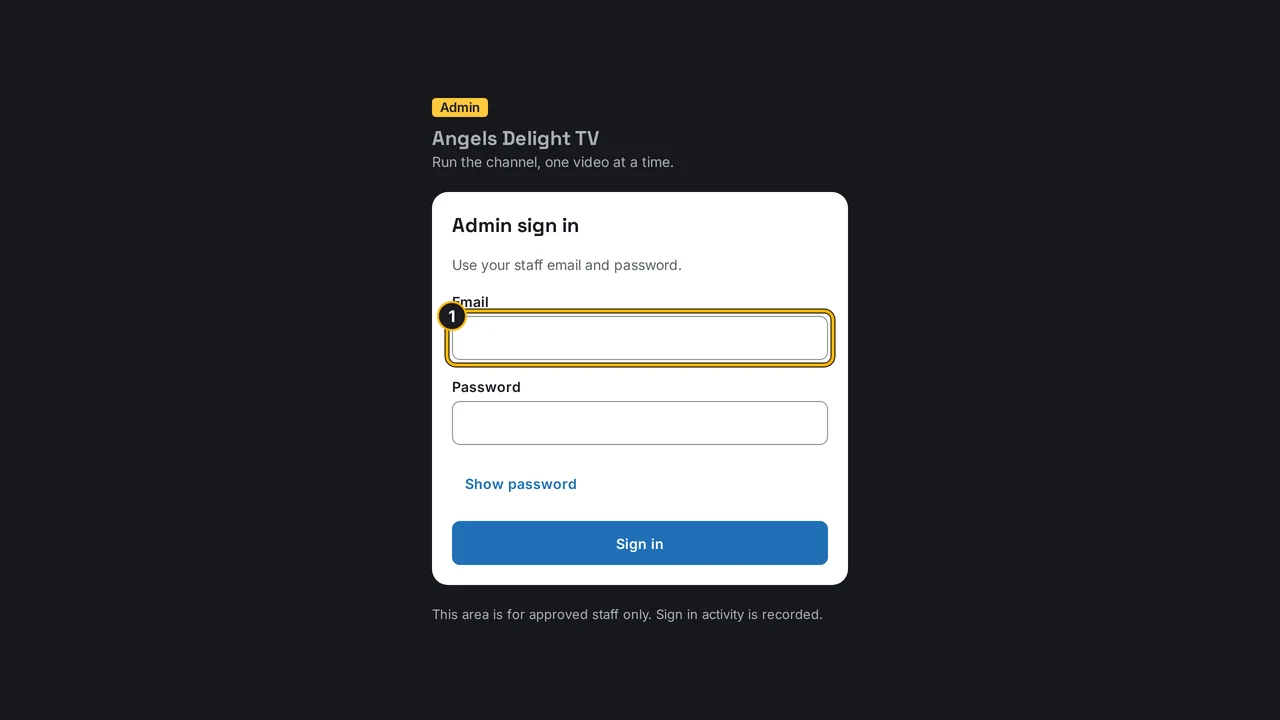
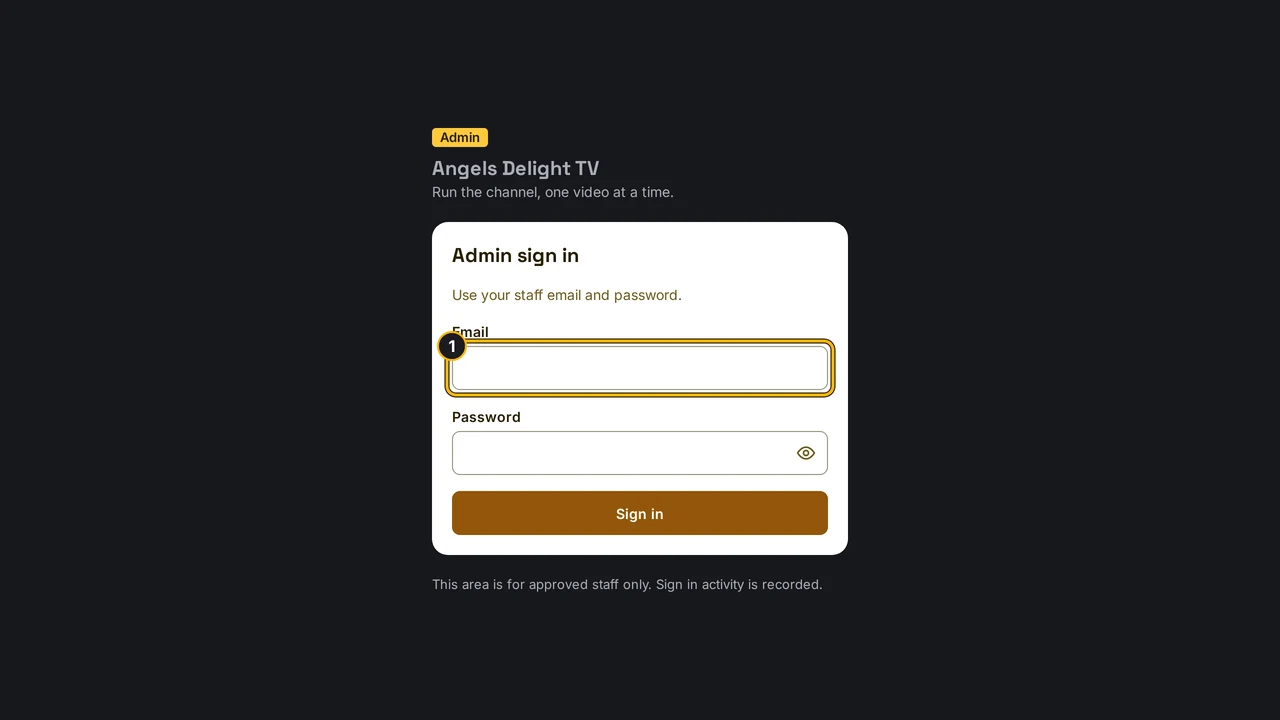
Re-record S02, T06, C12, C13 and K07 on the emailed code screens and refresh their pictures and steps

Changed region(s): [[0.3125, 0.1222, 0.6875, 0.6111], [0.3125, 0.6417, 0.6875, 0.8556], [0.625, 0.6111, 0.6562, 0.6417]]

diff --git a/scripts/kb-recorder/episodes/K07.ts b/scripts/kb-recorder/episodes/K07.ts
@@ -1,4 +1,5 @@
 import type { Episode } from '../episode';
+import { slow } from '../helpers-c7';
 import { pointAt, settle } from '../safety-helpers';
 
 /** K07: the safe habits that live on My account: password rules, the Security card, remembered devices, devices. */
@@ -96,4 +97,4 @@ const episode: Episode = {
   ],
 };
 
-export default episode;
+export default slow(episode, 3800);

diff --git a/scripts/kb-recorder/episodes/T06.ts b/scripts/kb-recorder/episodes/T06.ts
@@ -87,4 +87,4 @@ const episode: Episode = {
   ],
 };
 
-export default slow(episode, 1500);
+export default slow(episode, 3000);

diff --git a/content/help/en/safety/K07-keep-the-admin-safe.md b/content/help/en/safety/K07-keep-the-admin-safe.md
@@ -47,17 +47,15 @@ If you think someone else has your password, change it now, press **Sign out** b
 4. Type "river" in the **New password** box.
    This is only to show the rules. Nothing is saved until you press Change password.
    ![The password rules list under the New password box, marked 1](../../media/K07/K07-04-password-rules-desktop.webp)
-5. Scroll to **Two step sign in**.
-   Two step sign in is on for every staff account. It asks for a code we email you, or one from your app.
-6. Click **Make new recovery codes**.
-   Recovery codes let you in if you lose your phone. Each code works once. Keep them somewhere safe and private.
-   ![The Make new recovery codes box asking for the authenticator code, marked 1](../../media/K07/K07-06-recovery-box-desktop.webp)
-7. Check that **Your old codes stop working.** is in the box.
-8. Click **Cancel**.
-   Do not paste recovery codes into chats or emails, and do not take pictures of them.
-9. Scroll to **Where you are signed in**.
-   Sign out any device you do not know or no longer use. Staff sessions end after 7 days of no use, and after 30 days at most. Remembered devices are listed on this page with **Forget**.
-   ![The list of devices where you are signed in, marked 1](../../media/K07/K07-09-devices-desktop.webp)
+5. Scroll to **Security**.
+   Every staff account has a second step. It asks for a code we email you, or one from your authenticator app.
+   ![The Security card showing the second step in use, marked 1](../../media/K07/K07-05-security-desktop.webp)
+6. Scroll to **Remembered devices**.
+   These browsers skip the emailed code. Click **Forget** beside any you do not use. Authenticator app users see **Make new recovery codes** on the Security card instead. Each recovery code works once, so keep them private.
+   ![The Remembered devices card with its Forget button marked 1](../../media/K07/K07-06-remembered-desktop.webp)
+7. Scroll to **Where you are signed in**.
+   Sign out any device you do not know or no longer use. Staff sessions end after 60 minutes of no use.
+   ![The list of devices where you are signed in, marked 1](../../media/K07/K07-07-devices-desktop.webp)
 <!-- /kb:steps -->
 
 ## What you should see

diff --git a/content/help/en/start/S02-sign-in-and-set-up-two-step-sign-in.md b/content/help/en/start/S02-sign-in-and-set-up-two-step-sign-in.md
@@ -40,14 +40,17 @@ Sign in to the admin with your email, your password and a 6 digit code sent to y
 3. Type your password in the **Password** box.
    The dots hide your password. Nobody can read it over your shoulder.
 4. Click **Sign in**.
-5. Wait until you see **Enter your code**.
-   We email a 6 digit code to your address. It works once and lasts 10 minutes. The page has a **Remember this device** box, on by default.
-   ![The Enter your code page with the six digit boxes marked 1](../../media/S02/S02-05-code-desktop-dark.webp)
-6. Type the 6 digit code from the email in the code box.
-   If it has not come, wait a minute and choose **Email me a new code**. Authenticator app users type the app code instead.
-7. Click **Verify**.
-8. Wait until you see **Dashboard**. You are signed in.
-   ![The Dashboard with its heading marked 1](../../media/S02/S02-08-dashboard-desktop.webp)
+5. Wait until you see **Check your email**.
+   We email a 6 digit code to your address. It works once and lasts 10 minutes.
+   ![The Check your email page with the code box marked 1](../../media/S02/S02-05-code-desktop-dark.webp)
+6. Check that **Remember this device for 30 days** is ticked.
+   It is on by default. Untick it on a shared computer. If you use an authenticator app, the page asks for the app code instead.
+   ![The Remember this device box marked 1](../../media/S02/S02-06-remember-desktop-dark.webp)
+7. Type the 6 digit code from the email in the **6 digit code** box.
+   If it has not come, wait a minute and click **Send a new code**. Only the newest code works.
+8. Click **Sign in**.
+9. Wait until you see **Dashboard**. You are signed in.
+   ![The Dashboard with its heading marked 1](../../media/S02/S02-09-dashboard-desktop.webp)
 <!-- /kb:steps -->
 
 ## What you should see

diff --git a/content/help/en/setup/C13-your-own-account.md b/content/help/en/setup/C13-your-own-account.md
@@ -34,12 +34,15 @@ Any staff role can do this. For a password change you need your inbox or your au
 3. Type "Demo Editor One" in the **Display name** box.
 4. Click **Save name**.
 5. Check the **Security** card.
-   It shows whether you get a code by email or from an authenticator app. With an app it also shows your recovery codes left. Remembered devices are listed below it, each with **Forget**.
-   ![The Security card with the recovery codes button marked 1](../../media/C13/C13-05-two-step-desktop.webp)
-6. Click **Sign out Laptop, Firefox**.
+   It shows whether you get a code by email or from an authenticator app. Use **Switch to an authenticator app** or **Switch to emailed codes** to change it.
+   ![The Security card with the Switch to an authenticator app button marked 1](../../media/C13/C13-05-security-desktop.webp)
+6. Check the **Remembered devices** card.
+   These browsers skip the emailed code until they expire. Click **Forget** beside one you no longer trust.
+   ![The Remembered devices card with its Forget button marked 1](../../media/C13/C13-06-remembered-desktop.webp)
+7. Click **Sign out Laptop, Firefox**.
    Use this when you left yourself signed in on a shared computer. Sign out only the other devices, not this browser.
-   ![The list of places you are signed in, marked 1](../../media/C13/C13-06-devices-desktop.webp)
-7. Check the **Email notifications** card.
+   ![The list of places you are signed in, marked 1](../../media/C13/C13-07-devices-desktop.webp)
+8. Check the **Email notifications** card.
    Choose which emails you get: failures, captions ready to review and a daily summary. Security emails like password resets are always sent.
 <!-- /kb:steps -->
 

diff --git a/content/help/en/setup/C12-change-a-role-remove-access-reset-two-step.md b/content/help/en/setup/C12-change-a-role-remove-access-reset-two-step.md
@@ -35,10 +35,12 @@ You need to be a Super admin. Read [Invite a teammate and choose their role](hel
    The box explains what the new role can do. The person gets the new role the next time they open the admin.
 5. Click **Reset two step sign in for Demo Admin**.
    Use this when someone loses their phone. They are signed out everywhere, their remembered devices are forgotten, and they sign in again with an emailed code.
-   ![The reset box with the code field marked 1](../../media/C12/C12-05-reset-desktop.webp)
-6. Type "123456" in the **Your authenticator code** box.
-   This is your own code, not theirs. If you use emailed codes, choose **Email me a code instead** and type that code.
-7. Click **Reset** to confirm.
+   ![The reset box with the Email me a code instead button marked 1](../../media/C12/C12-05-reset-desktop.webp)
+6. Click **Email me a code instead**.
+   Use this when you sign in with emailed codes. We send a code to your own address. App users skip this and type the app code.
+7. Type "123456" in the **Your emailed code** box.
+   This is your own code, not theirs. In this demo the code is 123456.
+8. Click **Reset** to confirm.
 <!-- /kb:steps -->
 
 ## What you should see

diff --git a/content/help/en/troubleshooting/T06-i-cannot-sign-in-or-i-lost-my-phone.md b/content/help/en/troubleshooting/T06-i-cannot-sign-in-or-i-lost-my-phone.md
@@ -37,9 +37,9 @@ Have your email address and access to your inbox. If you set up an [authenticato
    ![The sign in page with the wrong password message marked 1](../../media/T06/T06-05-wrong-desktop-dark.webp)
 6. Type your password in the **Password** box.
 7. Click **Sign in** again.
-8. Check the **Enter your code** page.
-   The code is in the email we sent, or in your app if you use one. Emailed codes last 10 minutes.
-   ![The code page with the six digit boxes marked 1](../../media/T06/T06-08-code-desktop-dark.webp)
+8. Check the **Check your email** page.
+   The code is in the email we sent and lasts 10 minutes. If it has not come, wait a minute and click Send a new code. App users type the app code instead.
+   ![The Check your email page with the code box marked 1](../../media/T06/T06-08-code-desktop-dark.webp)
 <!-- /kb:steps -->
 
 ## What you should see
